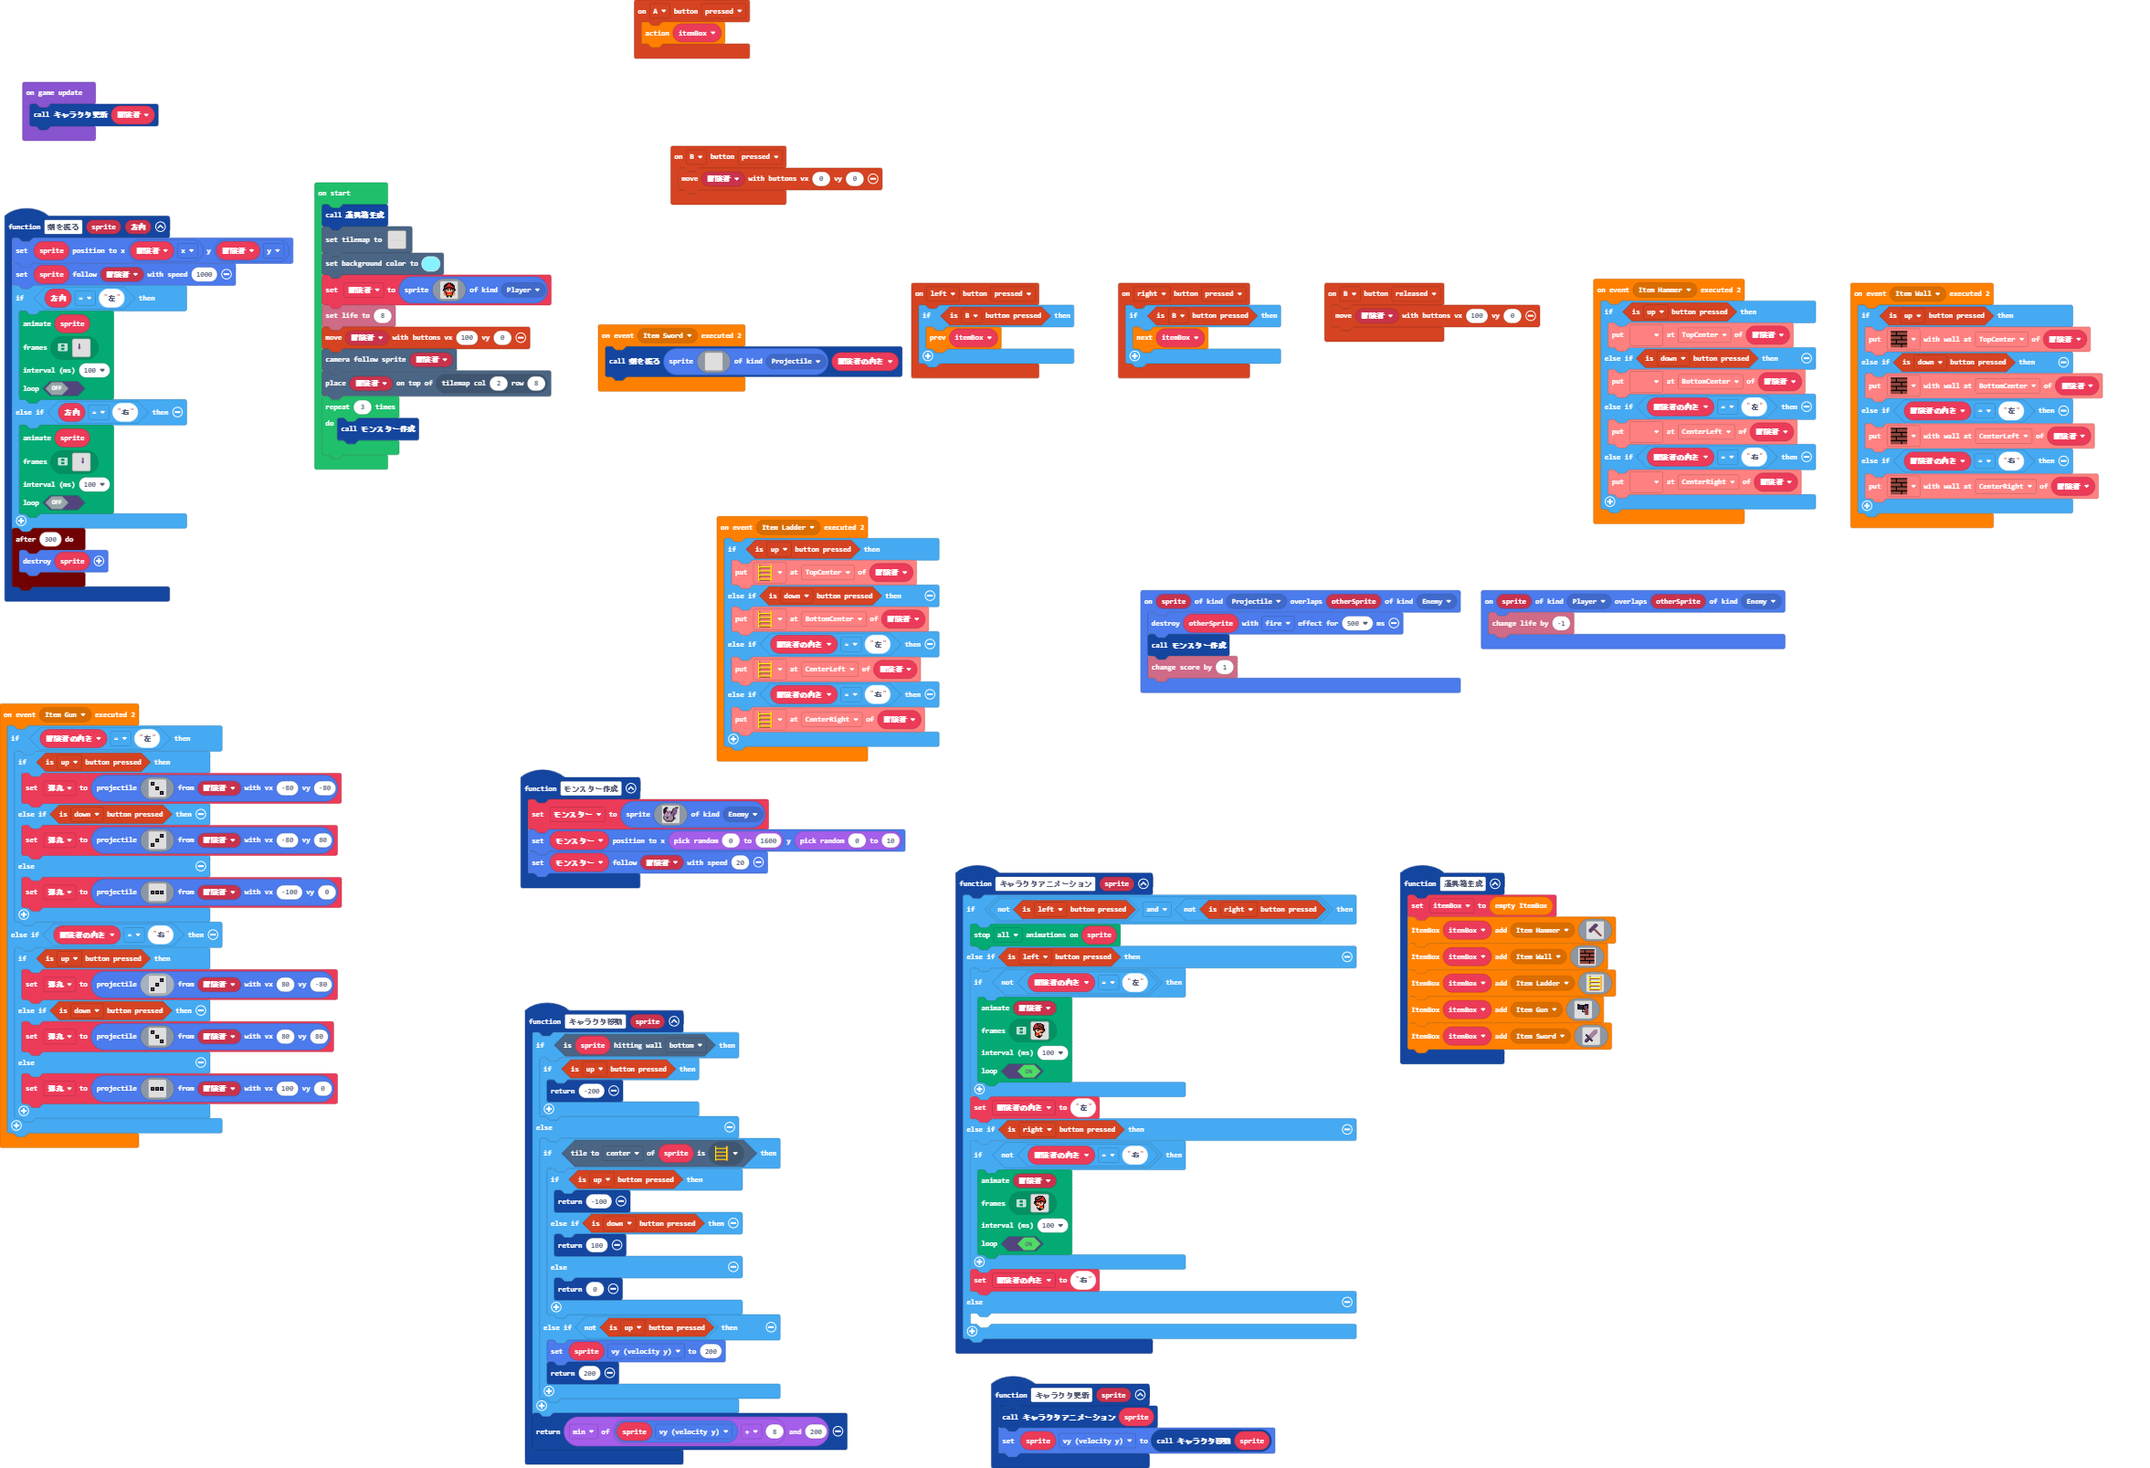
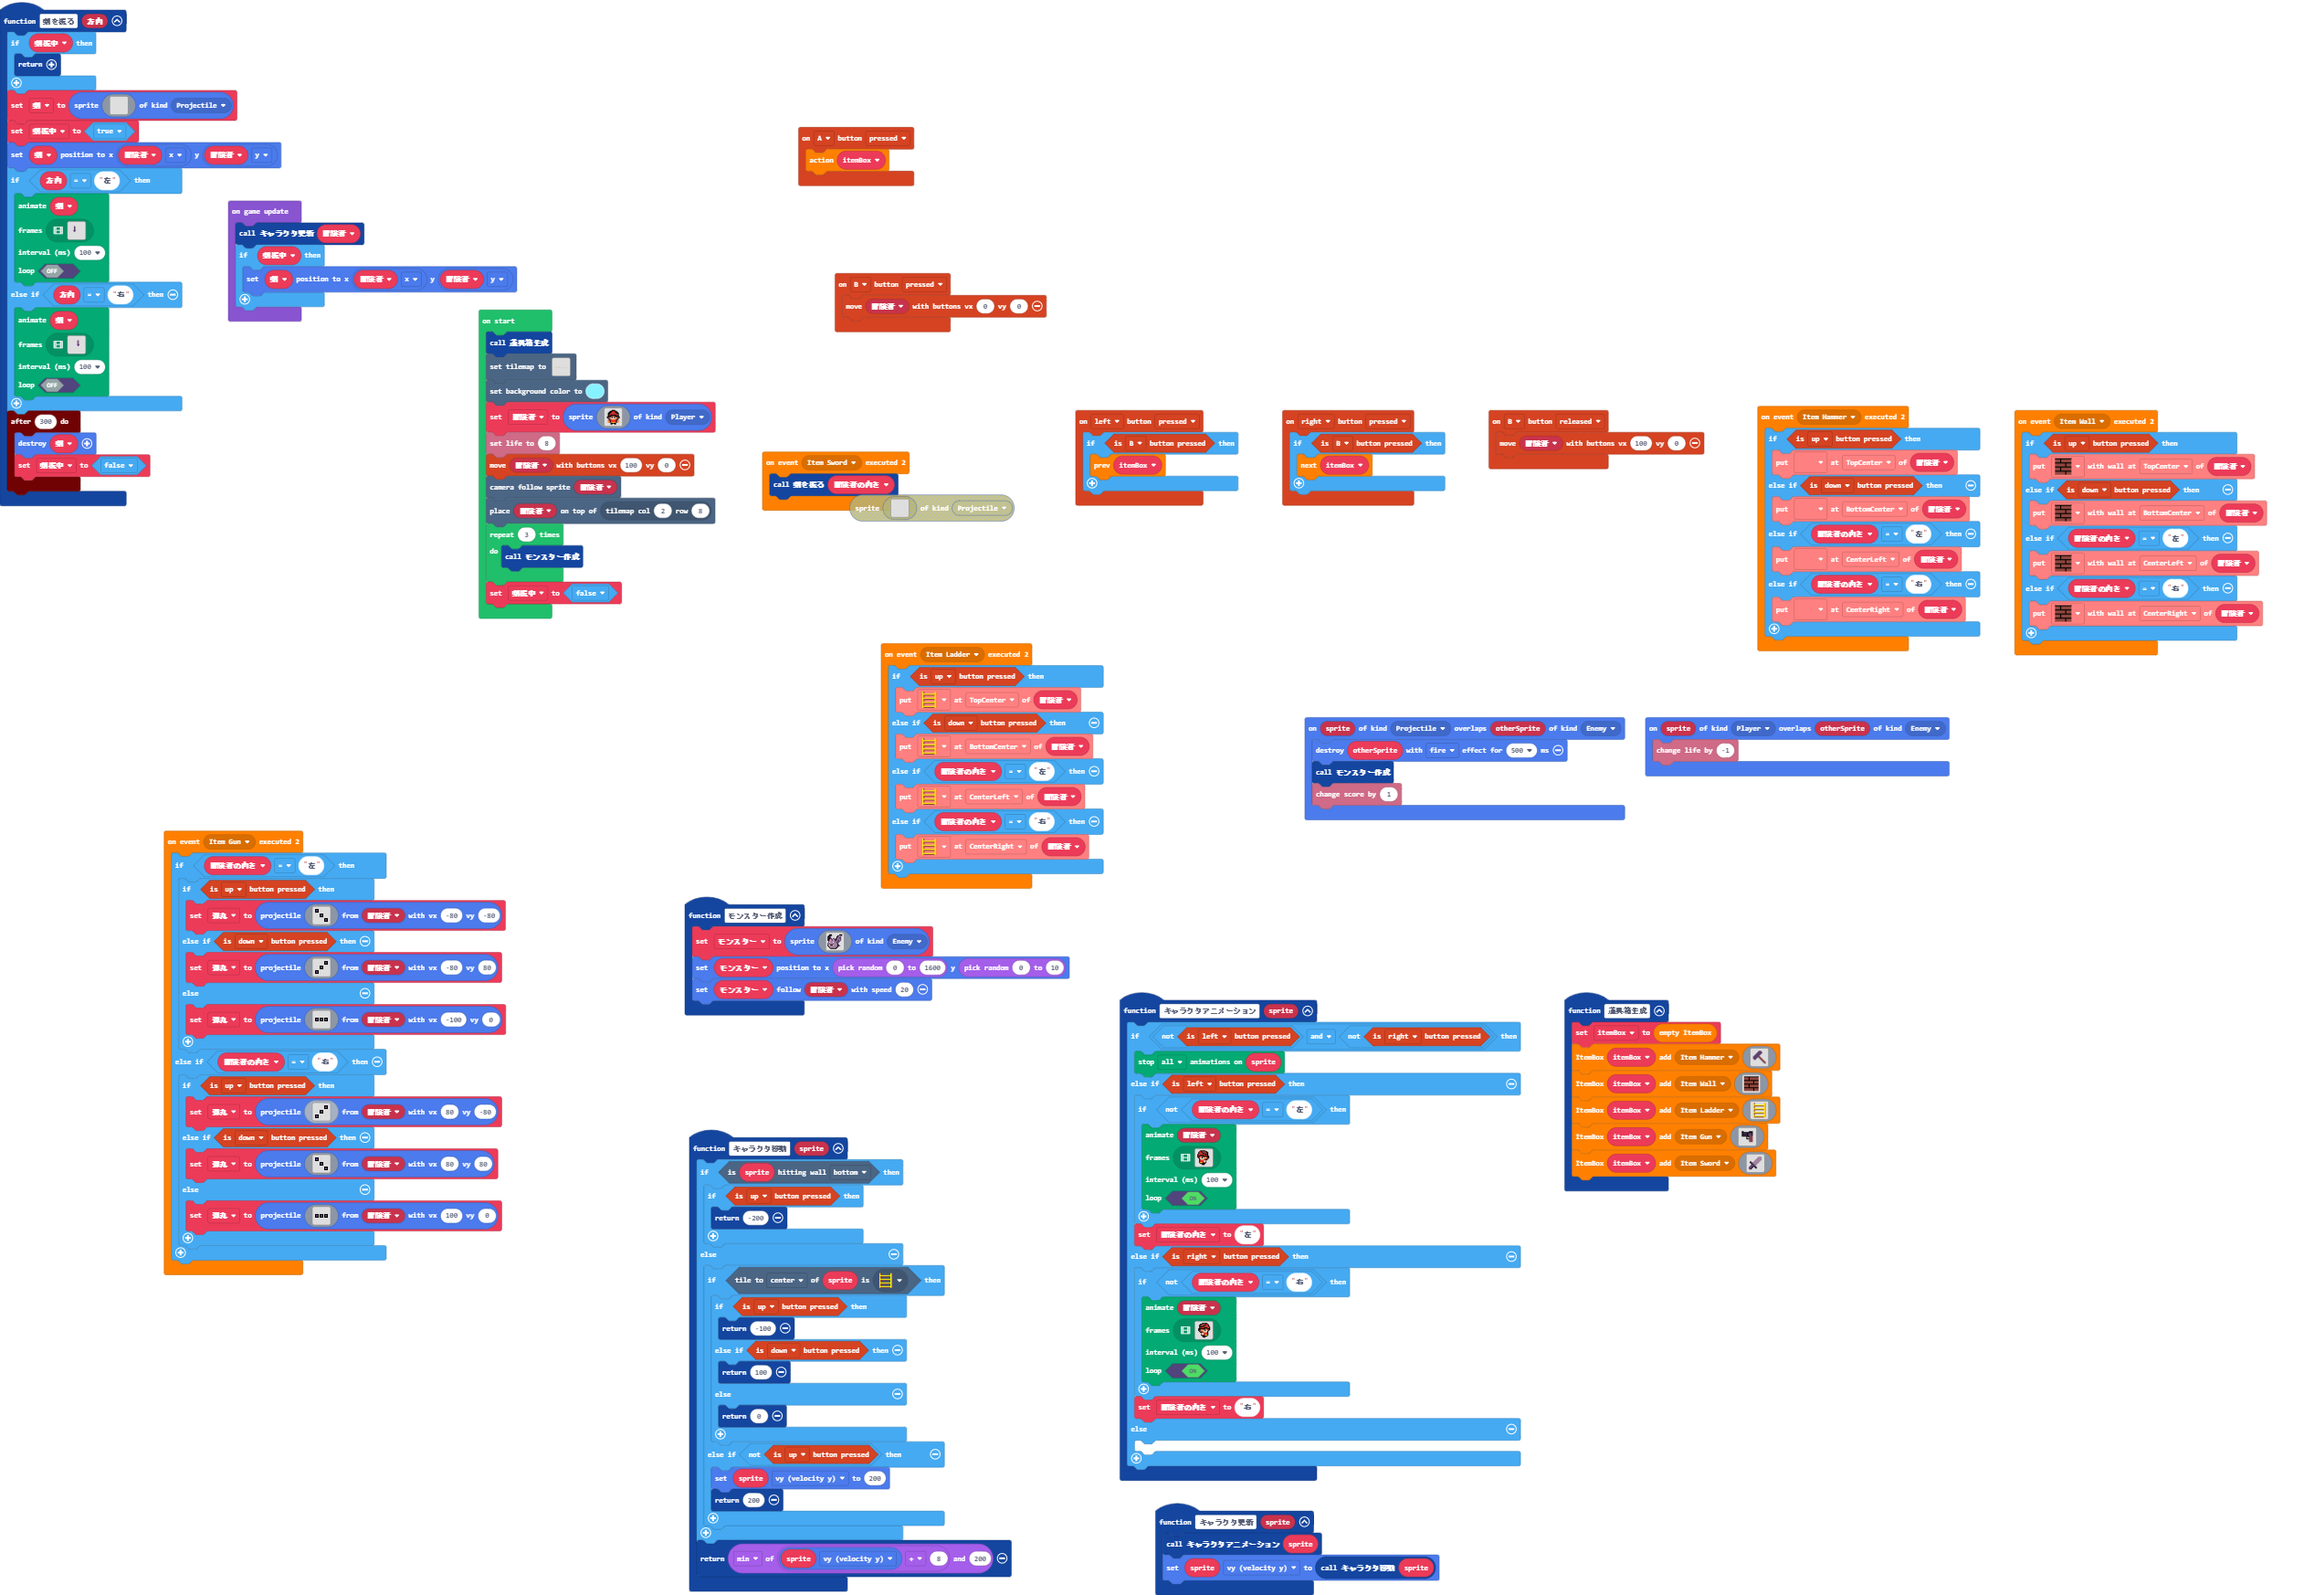
Update pxt.json, main.blocks, main.ts

diff --git a/main.ts b/main.ts
@@ -50,24 +50,7 @@ function 道具箱生成 () {
     itemBox.add(ItemKind.Sword, assets.image`myImage`)
 }
 Items.onEvent(ItemKind.Sword, function () {
-    剣を振る(sprites.create(img`
-        . . . . . . . . . . . . . . . . 
-        . . . . . . . . . . . . . . . . 
-        . . . . . . . . . . . . . . . . 
-        . . . . . . . . . . . . . . . . 
-        . . . . . . . . . . . . . . . . 
-        . . . . . . . . . . . . . . . . 
-        . . . . . . . . . . . . . . . . 
-        . . . . . . . . . . . . . . . . 
-        . . . . . . . . . . . . . . . . 
-        . . . . . . . . . . . . . . . . 
-        . . . . . . . . . . . . . . . . 
-        . . . . . . . . . . . . . . . . 
-        . . . . . . . . . . . . . . . . 
-        . . . . . . . . . . . . . . . . 
-        . . . . . . . . . . . . . . . . 
-        . . . . . . . . . . . . . . . . 
-        `, SpriteKind.Projectile), 冒険者の向き)
+    剣を振る(冒険者の向き)
 })
 function キャラクタ更新 (sprite: Sprite) {
     キャラクタアニメーション(sprite)
@@ -108,26 +91,48 @@ Items.onEvent(ItemKind.Gun, function () {
         }
     }
 })
-function 剣を振る (sprite: Sprite, 方向: string) {
-    sprite.setPosition(冒険者.x, 冒険者.y)
-    sprite.follow(冒険者, 1000)
+function 剣を振る (方向: string) {
+    if (剣振中) {
+        return
+    }
+    剣 = sprites.create(img`
+        . . . . . . . . . . . . . . . . 
+        . . . . . . . . . . . . . . . . 
+        . . . . . . . . . . . . . . . . 
+        . . . . . . . . . . . . . . . . 
+        . . . . . . . . . . . . . . . . 
+        . . . . . . . . . . . . . . . . 
+        . . . . . . . . . . . . . . . . 
+        . . . . . . . . . . . . . . . . 
+        . . . . . . . . . . . . . . . . 
+        . . . . . . . . . . . . . . . . 
+        . . . . . . . . . . . . . . . . 
+        . . . . . . . . . . . . . . . . 
+        . . . . . . . . . . . . . . . . 
+        . . . . . . . . . . . . . . . . 
+        . . . . . . . . . . . . . . . . 
+        . . . . . . . . . . . . . . . . 
+        `, SpriteKind.Projectile)
+    剣振中 = true
+    剣.setPosition(冒険者.x, 冒険者.y)
     if (方向 == "左") {
         animation.runImageAnimation(
-        sprite,
+        剣,
         assets.animation`sword_left_anim`,
         100,
         false
         )
     } else if (方向 == "右") {
         animation.runImageAnimation(
-        sprite,
+        剣,
         assets.animation`sword_right_anim`,
         100,
         false
         )
     }
     timer.after(300, function () {
-        sprite.destroy()
+        剣.destroy()
+        剣振中 = false
     })
 }
 controller.B.onEvent(ControllerButtonEvent.Released, function () {
@@ -347,10 +352,12 @@ sprites.onOverlap(SpriteKind.Projectile, SpriteKind.Enemy, function (sprite, oth
 sprites.onOverlap(SpriteKind.Player, SpriteKind.Enemy, function (sprite, otherSprite) {
     info.changeLifeBy(-1)
 })
+let 剣: Sprite = null
 let 弾丸: Sprite = null
 let 冒険者の向き = ""
 let itemBox: ItemBox = null
 let モンスター: Sprite = null
+let 剣振中 = false
 let 冒険者: Sprite = null
 道具箱生成()
 tiles.setTilemap(tilemap`level1`)
@@ -380,6 +387,10 @@ tiles.placeOnTile(冒険者, tiles.getTileLocation(2, 8))
 for (let index = 0; index < 3; index++) {
     モンスター作成()
 }
+剣振中 = false
 game.onUpdate(function () {
     キャラクタ更新(冒険者)
+    if (剣振中) {
+        剣.setPosition(冒険者.x, 冒険者.y)
+    }
 })
